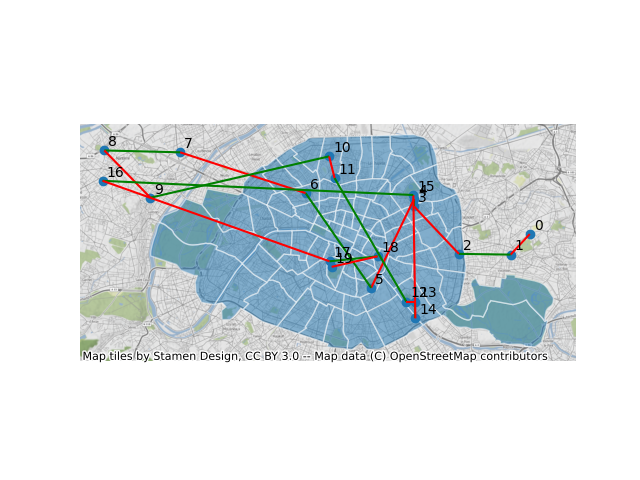
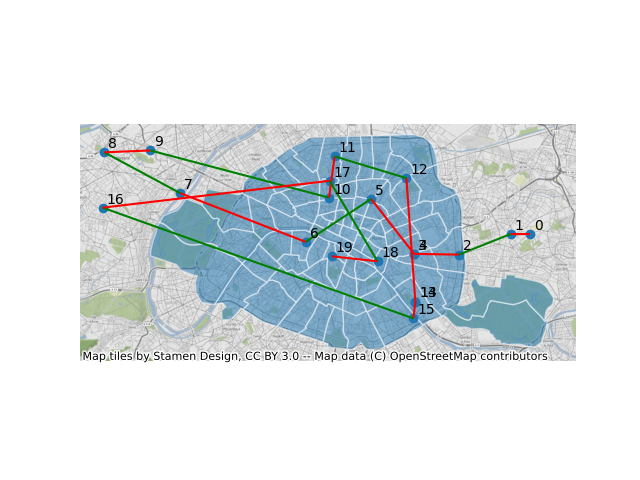
fixed bug in courses script, added regulation script

Changed region(s): [[0.1562, 0.2812, 0.8438, 0.6875], [0.4375, 0.5625, 0.5, 0.5938]]

diff --git a/src/read_regulation.py b/src/read_regulation.py
@@ -1,0 +1,43 @@
+import numpy as np
+import pandas as pd
+import matplotlib.pyplot as plt
+import geopandas as gpd
+import contextily as ctx
+from shapely.geometry import Point, LineString
+
+# doc: ../data/raw/14-Hackathon/03_R├йgulation_mouvements_stations/Descriptif_r├йgulation_mouvements_stations.txt
+file = "../data/raw/14-Hackathon/03_R├йgulation_mouvements_stations/2023_02/2023-02-01_Mouvements_de_r├йgulation.csv"
+regulation = pd.read_csv(file)
+regulation.head()
+regulation.columns
+
+regulation["Latitude station prise"] = regulation["Latitude station prise"].str.replace(',', '.').astype(float)
+regulation["Longitude station prise"] = regulation["Longitude station prise"].str.replace(',', '.').astype(float)
+regulation["Latitude station dépose"] = regulation["Latitude station dépose"].str.replace(',', '.').astype(float)
+regulation["Longitude station dépose"] = regulation["Longitude station dépose"].str.replace(',', '.').astype(float)
+
+geometry_start = gpd.points_from_xy(regulation["Longitude station prise"], regulation["Latitude station prise"])
+geometry_end = gpd.points_from_xy(regulation["Longitude station dépose"], regulation["Latitude station dépose"])
+geometry_line = [(LineString([[a.x, a.y],[b.x, b.y]]) if b!=None else None) for (a,b) in zip(geometry_start, geometry_end)]
+
+regulation_start = gpd.GeoDataFrame(regulation, crs=4326, geometry=geometry_start)
+regulation_end = gpd.GeoDataFrame(regulation, crs=4326, geometry=geometry_end)
+regulation_line = gpd.GeoDataFrame(regulation, crs=4326, geometry=geometry_line)
+regulation_start = regulation_start.to_crs(epsg = 3857)
+regulation_end = regulation_end.to_crs(epsg = 3857)
+regulation_line = regulation_line.to_crs(epsg = 3857)
+districts = gpd.read_file("../data/raw/quartier_paris.geojson").to_crs(epsg=3857)
+
+fig, ax = plt.subplots()
+districts.plot(ax=ax, alpha=0.5, edgecolor="white")
+# plot points and lines
+regulation_start.plot(ax=ax, color = "green")
+regulation_end.plot(ax=ax, color = "red")
+regulation_line.plot(ax=ax, color = "lightblue")
+ax.set_axis_off()
+ctx.add_basemap(ax)
+
+
+plt.savefig('../img/regulation_first_night.png')
+
+# plt.show()

diff --git a/src/read_courses.py b/src/read_courses.py
@@ -21,7 +21,7 @@ courses["Longitude station départ"] = courses["Longitude station départ"].str.
 courses["Latitude station arrivée"] = courses["Latitude station arrivée"].str.replace(',', '.').astype(float)
 courses["Longitude station arrivée"] = courses["Longitude station arrivée"].str.replace(',', '.').astype(float)
 
-geometry = gpd.points_from_xy(courses["Longitude station départ"], courses["Latitude station arrivée"])
+geometry = gpd.points_from_xy(courses["Longitude station départ"], courses["Latitude station départ"])
 
 geo_stations = gpd.GeoDataFrame(
     courses, crs=4326, geometry=geometry
@@ -47,6 +47,7 @@ courses_velo_specifique.plot(ax=ax)
 courses_velo_lines.plot(ax=ax, colors = colors)
 # geo_stations
 
+# add numbers
 for x, y, label in zip(courses_velo_specifique.geometry.x, courses_velo_specifique.geometry.y, courses_velo_specifique.trip_number):
     ax.annotate(label, xy=(x, y), xytext=(3, 3), textcoords="offset points")
 
